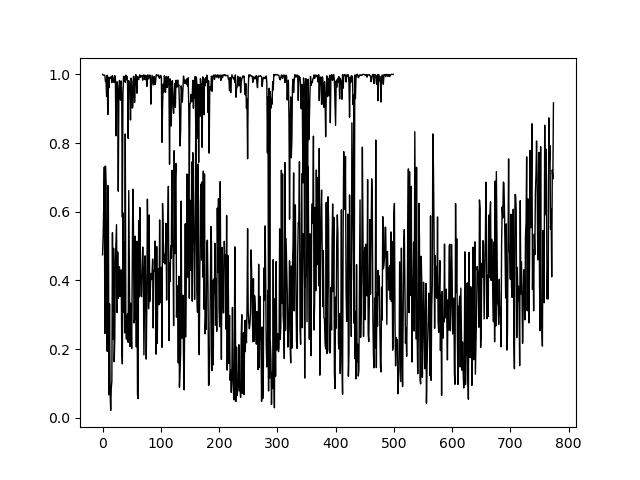
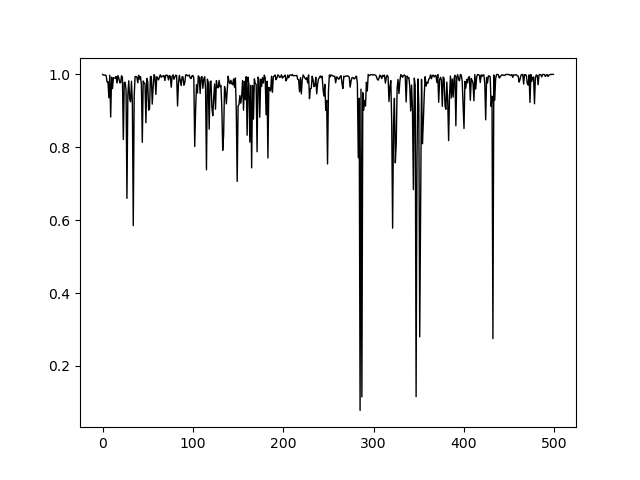
Clearing the plot of previous sequence in the loop.

diff --git a/thermoclass/results.py b/thermoclass/results.py
@@ -96,3 +96,5 @@ def plot_predictions(predictions_file, seq_key, indeces, sep, output_png, smooth
 
 	plt.plot(x_values, y_values, linewidth=1, color='black')
 	plt.savefig(output_png)
+	plt.clf()
+
